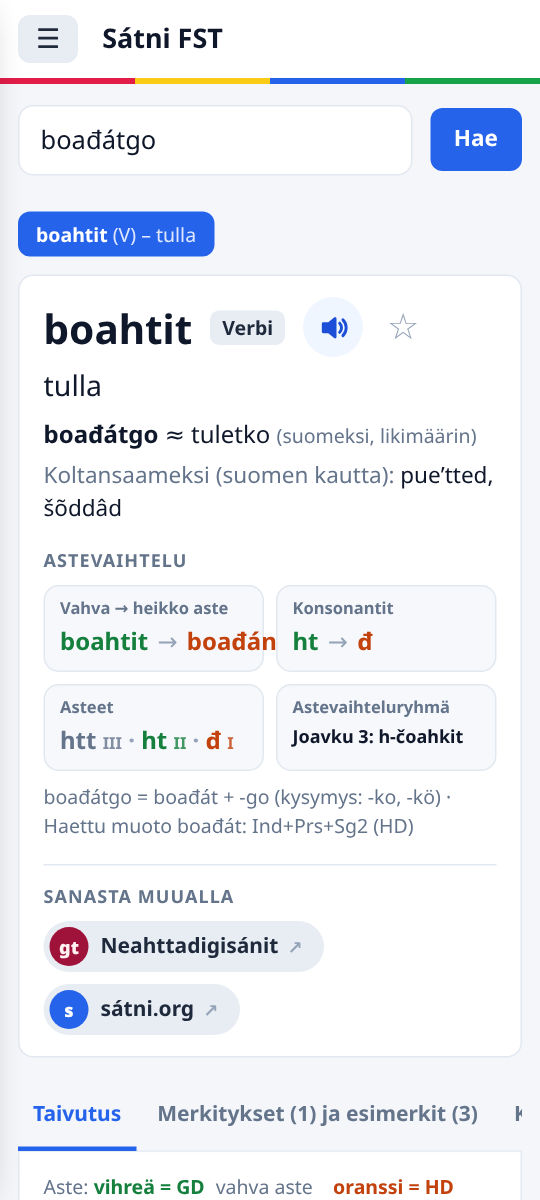
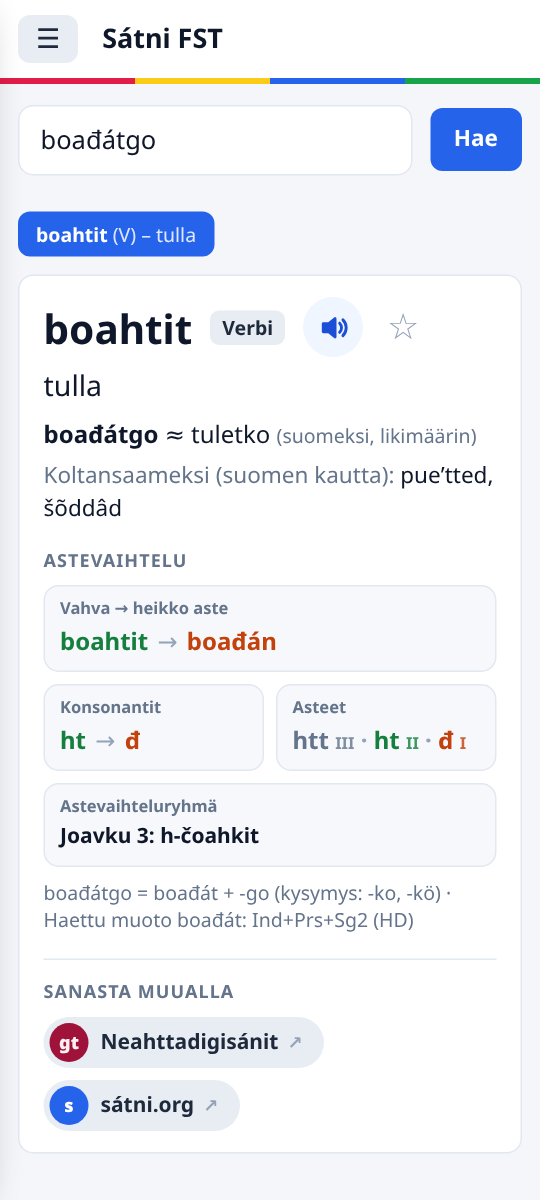
Puhelimen astevaihtelulaatikot: sanapari ja ryhmä omille riveilleen, koska pitkät sanat menivät edellisessä korjauksessa laatikon yli (oahppat, Guovdageaidnu); kotisivun uutiskuva search-092 uusittu (Astevaihteluryhmä) ja puhelinkuvat päivitetty

diff --git a/web/styles.css b/web/styles.css
@@ -256,12 +256,12 @@ main > * + * { margin-top: 12px; }
 .grad-cell.group .gc-val { font-size: 14px; font-weight: 600; }
 .gc-val .nw { white-space: nowrap; }
 .gradation .arrow { color: var(--subtle); font-weight: 400; margin: 0 2px; }
-/* Puhelimessa tasainen 2 × 2 -ruudukko */
+/* Puhelimessa sanapari ja ryhmä omille riveilleen, koska pitkät sanat eivät mahdu puolikkaaseen; väliin konsonantit ja asteet */
 @media (max-width: 480px) {
   .grad-cells { display: grid; grid-template-columns: minmax(0, 1fr) minmax(0, 1fr); }
   .grad-cell { min-width: 0; padding-inline: 10px; }
-  .grad-cell.group .gc-val { white-space: normal; font-size: 12px; overflow-wrap: anywhere; }
-  .grad-cell.group .gc-val .nw { white-space: normal; }
+  .grad-cell.forms, .grad-cell.group { grid-column: 1 / -1; }
+  .gc-val { white-space: normal; overflow-wrap: anywhere; }
 }
 #word-info:empty { display: none; }
 #word-info { margin: 8px 0 0; }
